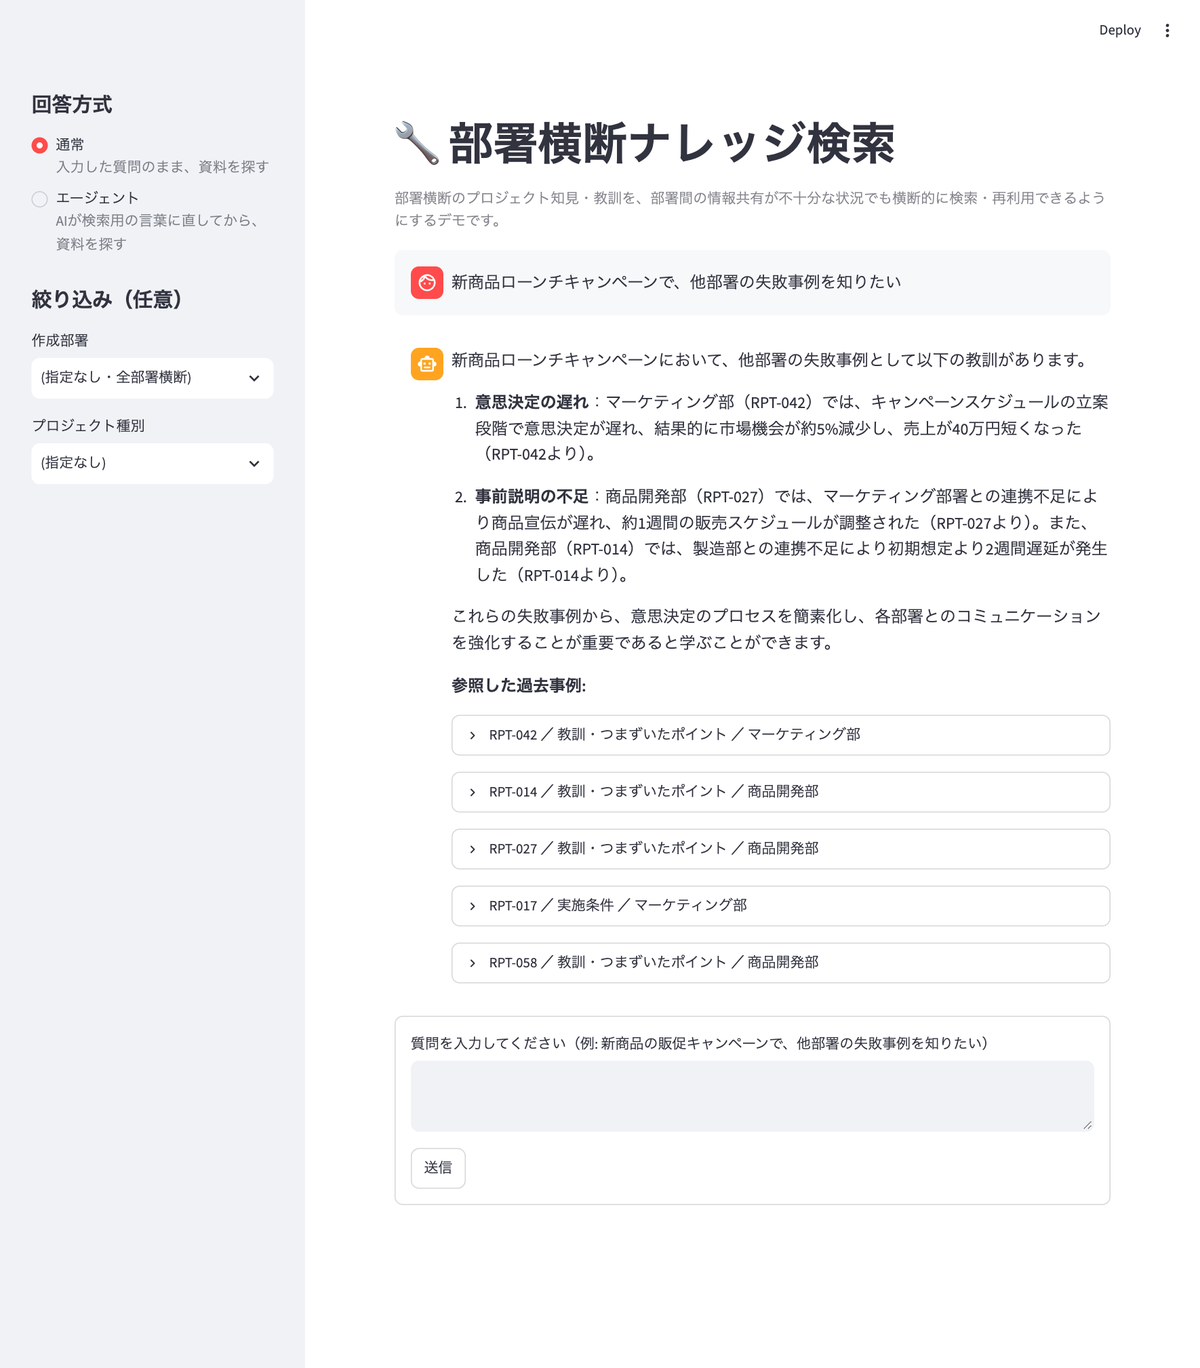
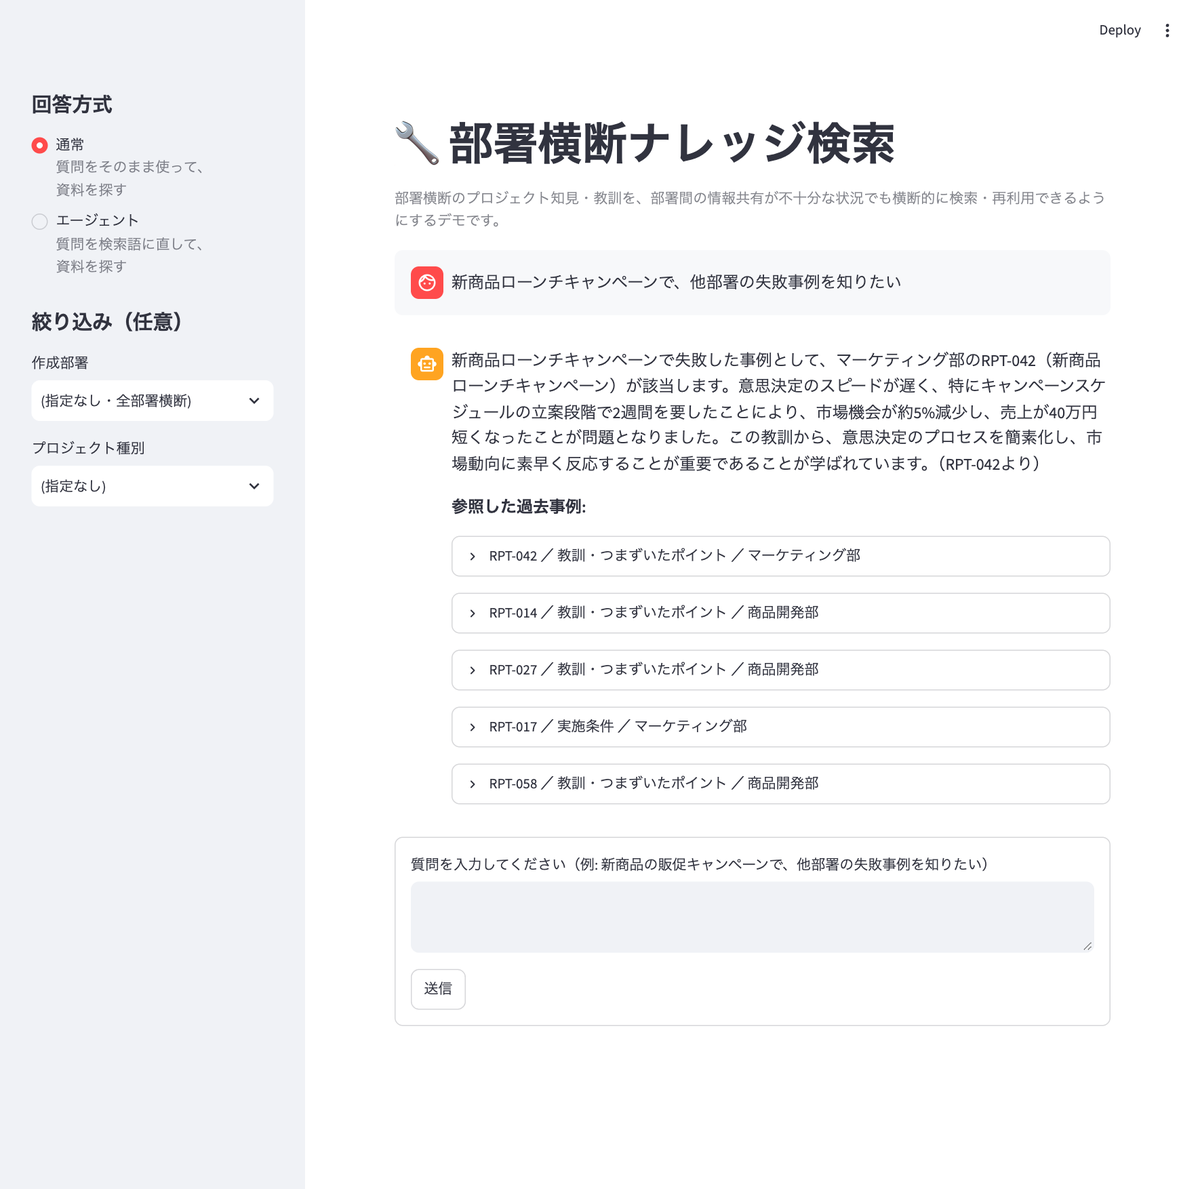
Refine the answer-mode captions and say which model does what
- Captions now share one structure and name both objects: 'question as is,
  then search the documents' / 'question rewritten into search terms, then
  search the documents' (no 'AI', since plain mode uses AI too).
- The captions are about as wide as the sidebar, so whether they fit
  depends on the font and zoom. word-break: keep-all on the captions stops
  breaks inside Japanese words; if a caption wraps, it wraps after the
  comma (checked at 67-200% zoom and 1x/2x device scale).
- The README (ja/en) adds 'which model does what': the chat LLM rewrites
  the question, BM25 (a formula) and the embedding model search, the chat
  LLM reranks, resolves 'that' and writes the answer, and the VLM
  describes images. Step 4 links to it; the screenshot captions and step 4
  use the same sentence structure for both modes.
- Screenshots retaken with the final captions.

diff --git a/src/silo_rag/app.py b/src/silo_rag/app.py
@@ -45,11 +45,15 @@ def _filter_widgets() -> dict[str, str]:
 
 _MODE_BASELINE = "通常"
 _MODE_AGENT = "エージェント"
-_MODE_CAPTIONS = ["入力した質問のまま、資料を探す", "AIが検索用の言葉に直してから、資料を探す"]
+_MODE_CAPTIONS = ["質問をそのまま使って、資料を探す", "質問を検索語に直して、資料を探す"]
+# The captions are about as wide as the sidebar, so whether they fit depends on the font and zoom.
+# keep-all stops breaks inside Japanese words: if a caption wraps, it wraps after the comma.
+_CAPTION_STYLE = '<style>[data-testid="stRadioCaption"] p { word-break: keep-all; }</style>'
 
 
 def _mode_widget() -> str:
     """Answer-mode selector; baseline only if the optional langgraph extra (.[agent]) is missing."""
+    st.html(_CAPTION_STYLE)
     st.sidebar.header("回答方式")
     if importlib.util.find_spec("langgraph") is None:
         st.sidebar.caption('エージェントを使うには `pip install -e ".[agent]"` が必要です。')

diff --git a/README_ja.md b/README_ja.md
@@ -26,8 +26,8 @@
 
 <table>
 <tr>
-<td width="50%"><img src="docs/screenshots/gui_plain.png" alt="通常方式の画面。サイドバーで「通常」を選び、質問すると、回答と参照した過去事例が出る"><br><b>通常方式</b>: 入力した質問のまま資料を探して、回答と、参照した過去事例（出典）を出す</td>
-<td width="50%"><img src="docs/screenshots/gui_agent.png" alt="エージェント方式の画面。回答の下に「エージェントの動き」（クエリ作成・検索・判定・回答生成）が出る"><br><b>エージェント方式</b>（オプション）: AIが検索用の言葉に直してから、資料を探す。回答の下に、「エージェントの動き」の記録が出る</td>
+<td width="50%"><img src="docs/screenshots/gui_plain.png" alt="通常方式の画面。サイドバーで「通常」を選び、質問すると、回答と参照した過去事例が出る"><br><b>通常方式</b>: 質問をそのまま使って、資料を探す。回答と、参照した過去事例（出典）が出る</td>
+<td width="50%"><img src="docs/screenshots/gui_agent.png" alt="エージェント方式の画面。回答の下に「エージェントの動き」（クエリ作成・検索・判定・回答生成）が出る"><br><b>エージェント方式</b>（オプション）: 質問を検索語に直して、資料を探す。回答と、参照した過去事例（出典）に加えて、「エージェントの動き」の記録が出る</td>
 </tr>
 </table>
 
@@ -131,18 +131,18 @@ streamlit run src/silo_rag/app.py --server.address localhost
 - **回答を見る**: 回答の下に「参照した過去事例」が、「レポートID ／ セクション ／ 部署」の形で並ぶ。開くと、根拠にした本文が出る。似た事例が他部署にあれば、他部署の事例だと明記して紹介する
 - **答えが無いとき**: 資料が質問と関係ないときや、雑談・挨拶など検索の質問になっていないときは、「該当する事例が見つかりませんでした」と答える。件数や集計を問う質問（「全部でいくつ？」「最も多いのは？」など）には、「分かりません」と答える（検索で見つけた一部の資料しか見ていないため）
 - **続けて質問する**: 前の質問を受けた質問（例:「それについてもう少し詳しく」）もできる。このときは、会話履歴を見て、「それ」などの言葉を具体的な言葉に直してから、資料を探す（通常方式・エージェント方式のどちらでも）。会話履歴は、検索の質問の解釈にだけ使う（「さっき何て言った？」には答えない）。ブラウザを再読み込みすると、会話履歴は消える
-- **回答方式（サイドバー）**: 「通常」（入力した質問のまま、資料を探す）と「エージェント」（AIが検索用の言葉に直してから、資料を探す）を、質問ごとに切り替える。それぞれの説明は、画面の選択肢の下にも出る。「エージェント」は、手順4で追加のライブラリを入れたときだけ出る。エージェントで答えると、回答の下に「エージェントの動き」（クエリ作成・検索・判定の記録）も出る
+- **回答方式（サイドバー）**: 「通常」（質問をそのまま使って、資料を探す）と「エージェント」（質問を検索語に直して、資料を探す）を、質問ごとに切り替える。それぞれの説明は、画面の選択肢の下にも出る。「エージェント」は、手順4で追加のライブラリを入れたときだけ出る。エージェントで答えると、回答の下に「エージェントの動き」（クエリ作成・検索・判定の記録）も出る
 - **絞り込み（任意。サイドバー）**: 「作成部署」と「プロジェクト種別」で、検索の対象を絞る。指定しなければ、全部署を横断して探す（自前のレポートでは、分類が合わないことがある。手順1のBの注意）
 
 ### 手順4（オプション）: エージェント方式を入れる
 
-通常方式は、入力した質問のまま資料を探して答える。エージェント方式は、AIが質問を検索用の言葉（検索クエリ）に直してから、資料を探す。使うには、追加のライブラリを入れる（入れなくても、通常方式は動く）。
+通常方式は、質問をそのまま使って資料を探し、答える。エージェント方式は、質問を検索語（検索クエリ）に直して資料を探し、答える。使うには、追加のライブラリを入れる（入れなくても、通常方式は動く）。
 
 ```bash
 pip install -e ".[agent]"
 ```
 
-入れると、サイドバーの「回答方式」に「エージェント」が出る（切り替え方は、手順3）。設定や、精度の測り方は、[エージェント方式の設計](docs/agent_ja.md)にある。
+入れると、サイドバーの「回答方式」に「エージェント」が出る（切り替え方は、手順3）。どの処理にどのモデルを使うかは、[アーキテクチャ](#アーキテクチャ)の「処理ごとに使うモデル」にある。設定や、精度の測り方は、[エージェント方式の設計](docs/agent_ja.md)にある。
 
 ## 制約・スコープ
 
@@ -238,11 +238,18 @@ graph TB
 | G（オプション） | `agent.py` | エージェント方式（LangGraph） |
 | H（オプション） | `langchain_adapter.py` | LangChain既製のエージェントで答え、Gと比べる |
 
+**処理ごとに使うモデル**（どれも手元のPCで動く。`config.toml`の`[ai]`で、`llm_model`・`embed_model`・`vlm_model`として指定する）
+
+- **質問を検索用の言葉に直す**（エージェント方式。通常方式でも、設定でオンにできる）: チャット用のLLM
+- **資料を探す**: キーワード検索（BM25。AIモデルではなく、言葉の出方で点数を付ける計算式）と、埋め込み用のモデル（文を数値の並びに変えて、意味の近さで探す）の2つで、候補を集める。そのあと、チャット用のLLMが、候補を質問に合う順に並べ直す
+- **「それ」などを具体的な言葉に直す・回答を作る**: チャット用のLLM
+- **レポートの中の画像を説明文にする**（取り込みのとき）: 画像を読めるモデル（VLM）
+
 各ノードが使うAIモデルと、検索の仕組み（キーワード検索のBM25と、意味で探すベクトル検索）は、[仕組みの詳細](docs/architecture_ja.md)にある。1つの質問が回答になるまでを、実際の値で追った[具体例](docs/worked_example_ja.md)もある。
 
 ## エージェント方式（ノードG・H）
 
-- **何をするか**: 通常方式は、入力した質問のまま、資料を1回探す。エージェント方式（ノードG）は、LangGraph（AIの処理の流れを組み立てるライブラリ）で、「検索クエリを作る → 検索 → 根拠が足りるか判定 → 足りなければ、別の言葉で再検索」を回す。ノードHは、LangChain（AIアプリを作るためのライブラリ）に用意されている既製のエージェントに同じ仕事をさせ、Gと比べるためのもの
+- **何をするか**: 通常方式は、質問をそのまま使って資料を1回探す。エージェント方式（ノードG）は、LangGraph（AIの処理の流れを組み立てるライブラリ）で、「検索クエリを作る → 検索 → 根拠が足りるか判定 → 足りなければ、別の言葉で再検索」を回す。ノードHは、LangChain（AIアプリを作るためのライブラリ）に用意されている既製のエージェントに同じ仕事をさせ、Gと比べるためのもの
 - **結果**: 正解の資料を見つけられた質問の割合（hit_rate）で比べた。小さめのモデル（7B＝パラメータ数70億）と15問では、エージェント方式が大きく良く見えた（通常方式0.60 → エージェント方式0.93）。しかし、この15問は、設計を決めるときに見ていた質問だった。45問で測り直すと、7Bで0.71 → 0.76で、差は偶然の範囲だった。大きめのモデル（32B＝320億）でも、エージェント方式と同じ動き（検索クエリを作ってから1回検索）を通常方式で測り、0.76 → 0.80で、同じく偶然の範囲だった
 - **結論**: 回答方式の既定は、通常方式のまま。エージェント方式は、オプションとして残した
 - **詳しくは**: 作りと設計判断は[エージェント方式の設計](docs/agent_ja.md)、表と測り方は[エージェント方式の評価](docs/agent_evaluation_ja.md)

diff --git a/README_en.md b/README_en.md
@@ -26,8 +26,8 @@ The "answer mode" in the sidebar switches between the plain mode and the agent m
 
 <table>
 <tr>
-<td width="50%"><img src="docs/screenshots/gui_plain.png" alt="The plain mode: with the sidebar set to the plain mode, a question returns an answer and the past cases it drew on"><br><b>Plain mode</b>: searches the documents with the question as typed, and shows the answer and the past cases it drew on (citations)</td>
-<td width="50%"><img src="docs/screenshots/gui_agent.png" alt="The agent mode: under the answer, a 'what the agent did' record (query writing, search, grading, answer generation)"><br><b>Agent mode</b> (optional): writes a search query, then searches. A record of what the agent did appears under the answer</td>
+<td width="50%"><img src="docs/screenshots/gui_plain.png" alt="The plain mode: with the sidebar set to the plain mode, a question returns an answer and the past cases it drew on"><br><b>Plain mode</b>: searches the documents with the question as typed. The answer and the past cases it drew on (citations) appear</td>
+<td width="50%"><img src="docs/screenshots/gui_agent.png" alt="The agent mode: under the answer, a 'what the agent did' record (query writing, search, grading, answer generation)"><br><b>Agent mode</b> (optional): rewrites the question into search terms, then searches the documents. The answer and the citations appear, plus a record of what the agent did</td>
 </tr>
 </table>
 
@@ -131,18 +131,18 @@ The sidebar (settings) is on the left; the questions and answers are on the righ
 - **Read the answer**: under the answer, "参照した過去事例" (cited past cases) lists the sources as "report ID / section / department". Open one to see the text the answer was based on. If a similar case exists in another department, the answer includes it and says it is from another department
 - **When there is no answer**: if the material has nothing to do with the question, or the input is not a search question (small talk, greetings and so on), it answers "該当する事例が見つかりませんでした" (no matching case found). Questions about counts or totals ("how many in all?", "which is the most common?") get "分かりません" (I don't know), because it only sees the part of the material that the search found
 - **Ask follow-up questions**: questions that build on the previous one (e.g., "tell me more about that") work. In that case, words such as "that" are first turned into concrete words using the conversation history, then the documents are searched (in both modes). The conversation history is used only to interpret search questions (it does not answer "what did I just say?"). Reloading the browser clears the history
-- **Answer mode (sidebar)**: switch between "通常" (plain: searches the documents with the question as typed) and "エージェント" (agent: the AI rewrites the question into search-friendly words first, then searches), question by question. Each option also shows this description under it on the screen. "エージェント" appears only after you install the extra libraries in step 4. When the agent answers, "エージェントの動き" (what the agent did: query writing, searching, grading) also appears under the answer
+- **Answer mode (sidebar)**: switch between "通常" (plain: searches the documents with the question as typed) and "エージェント" (agent: rewrites the question into search terms, then searches the documents), question by question. Each option also shows this description under it on the screen. "エージェント" appears only after you install the extra libraries in step 4. When the agent answers, "エージェントの動き" (what the agent did: query writing, searching, grading) also appears under the answer
 - **Filters (optional, sidebar)**: narrow the search by "作成部署" (department) and "プロジェクト種別" (project type). Without them, it searches across all departments (with your own reports the categories may not match; see the caution in step 1 B)
 
 ### Step 4 (optional): Install the agent mode
 
-Plain mode searches the documents with the question as typed, then answers. The agent mode has the AI write search-friendly words (a search query) from the question first, then search. It needs extra libraries (plain mode works without them).
+Plain mode searches the documents with the question as typed, then answers. The agent mode rewrites the question into search terms (a search query), then searches the documents and answers. It needs extra libraries (plain mode works without them).
 
 ```bash
 pip install -e ".[agent]"
 ```
 
-Once installed, "エージェント" (agent) appears under "answer mode" in the sidebar (how to switch is in step 3). Its settings and how to measure it are in [the agent mode's design](docs/agent_en.md).
+Once installed, "エージェント" (agent) appears under "answer mode" in the sidebar (how to switch is in step 3). Which model does which step is under "Which model does what" in the [architecture](#architecture). Its settings and how to measure it are in [the agent mode's design](docs/agent_en.md).
 
 ## Constraints and scope
 
@@ -237,6 +237,13 @@ graph TB
 | F | `app.py` | The screen (Streamlit) |
 | G (optional) | `agent.py` | The agent mode (LangGraph) |
 | H (optional) | `langchain_adapter.py` | Answers with LangChain's stock agent, to compare it with G |
+
+**Which model does what** (all run on your own computer; set under `[ai]` in `config.toml` as `llm_model`, `embed_model` and `vlm_model`)
+
+- **Rewriting the question into search-friendly words** (agent mode; plain mode can turn it on in the settings): the chat LLM
+- **Searching the documents**: keyword search (BM25, a formula that scores how the words appear, not an AI model) and the embedding model (turns sentences into lists of numbers and finds close meanings) collect the candidates; the chat LLM then reranks them by how well they fit the question
+- **Making words like "that" concrete, and writing the answer**: the chat LLM
+- **Turning images in the reports into text** (at ingestion): the model that can read images (VLM)
 
 The AI models each node uses, and how the search works (BM25 keyword search and vector search, which looks for meaning), are in [how it works](docs/architecture_en.md). A [worked example](docs/worked_example_en.md) follows one question all the way to an answer with real values.
 

diff --git a/docs/agent_ja.md b/docs/agent_ja.md
@@ -14,7 +14,7 @@
 
 ## 通常方式と、エージェント方式の違い
 
-- **通常方式**（既定）: 入力した質問のまま、資料を1回探して、見つけた資料を根拠に答える
+- **通常方式**（既定）: 質問をそのまま使って資料を1回探し、見つけた資料を根拠に答える
 - **エージェント方式**（オプション）: LLMが、質問から検索用の言葉（検索クエリ）を作ってから検索する。設定を変えると、根拠が足りないときに、別の言葉で検索し直すこともできる（初期設定では、検索し直さない）
 
 使い方（入れ方と、画面での切り替え方）は、READMEの[使い方](../README_ja.md#使い方)の手順3・手順4にある。
